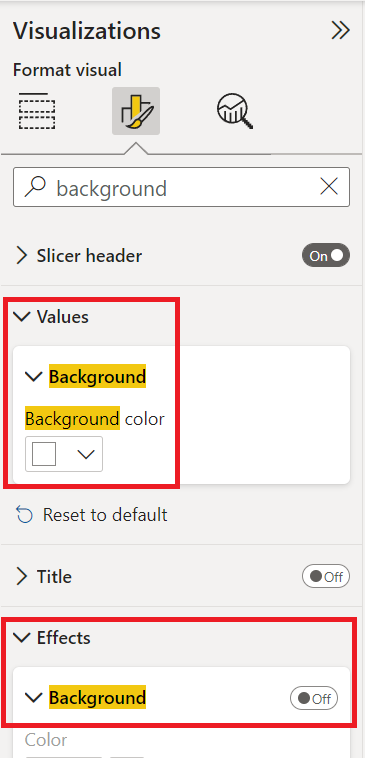
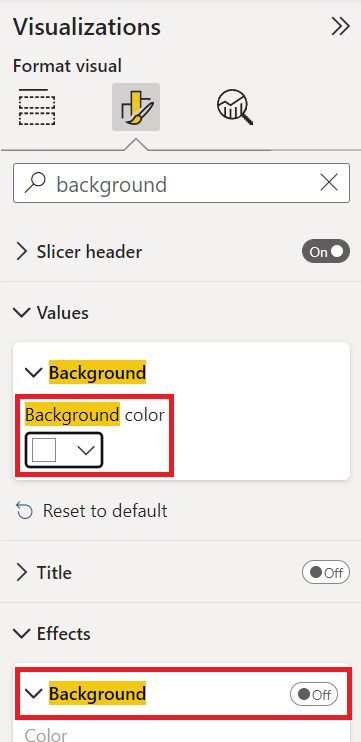
Updates to data viz instructions.

diff --git a/Day After Dashboard in a Day/DataVisualization.md b/Day After Dashboard in a Day/DataVisualization.md
@@ -195,8 +195,6 @@ As more requirements continue to be added to our report design, we want to be co
     
     ![Text color](./Media/TextColor.png)
 
-                
-
     | | |
     | :- | :- |
     | 🔍 Search term | **Values** |
@@ -258,16 +256,17 @@ Learn more about [DAX Fusion](https://dax.tips/2019/08/05/dax-fusion/) from the 
     | | |
     | :- | :- |
     | 🔍 Search term | **Header** |
+    | Slicer header > Title text | **Date** |
     | Slicer header > Font | **Segoe UI Semibold** |
     | Slicer header > Font size | **9** |
-    | Slicer header > Background | **White, 10% darker** | 
+    | Slicer header > Background | **White, 10% darker** |
 
     ![Style none](./Media/SlicerHeader.png)
 
     | | |
     | :- | :- |
     | 🔍 Search term | **Background** |
-    | Values > Background | **White** |
+    | Values > Background > Background color | **White** |
     | Effects > Background | **Off** |
 
     ![Style none](./Media/BackgroundColors.png)
@@ -278,7 +277,7 @@ Learn more about [DAX Fusion](https://dax.tips/2019/08/05/dax-fusion/) from the 
     ![Products slicer](./Media/ProductsSlicer.png)
 
 1. We'll now navigate to the **View** tab and select the **Performance analyzer** option. Within the **Performance analyzer** pane we'll select **Start recording** and then hover above our current slicer and select the **Analyze this visual** button in the top right.
-    
+
     Within our results, if we expand the **Slicer** name, a **DAX query** is present - this is because to render the current **List** configuration it must send a query to display our values.
 
     ![Analyze products slicer](./Media/AnalyzerProductsSlicer.png)
@@ -296,6 +295,79 @@ Learn more about [DAX Fusion](https://dax.tips/2019/08/05/dax-fusion/) from the 
     1. In the top right of the slicer select the downward chevron **(V)** and change the value to **Dropdown**
 
     ![Customer slicer](./Media/CustomerSlicer.png)
+
+1. We'll now select the **Date** slicer to make it our active object, navigate to the **Home** tab, select the **Format painter** button and repeat the following steps for the other two slicers.
+    1. With the **Format painter** mouse icon now active, select the **ProductCategoryName, ProductSubcategoryName** slicer to transfer the visual configurations.
+    1. With the **Format painter** mouse icon now active, select the **CustomerType*** slicer to transfer the visual configurations.
+    
+    ![Format painter](./Media/FormatPainter.png)
+
+1. We'll now click and hold the left mouse click and select both the **ProductCategoryName, ProductSubcategoryName** and **CustomerType** slicers (or press and hold Ctrl and then Click) on our page, navigate to the **Visualizations** pane's **Format your visual** section and update the following configurations below.
+
+    | | |
+    | :- | :- |
+    | 🔍 Search term | **Background** |
+    | Values > Background > Color | **White** |
+
+    ![Slicers values background](./Media/SlicersValuesBackground.png)
+
+<font size="6">✅ Lab check</font>
+
+![Finished slicer](./Media/FinishedSlicer.png)
+
+Maintaining a consistent look and feel across our report elements ensures a professional and visually appealing experiences for our end users. Utilizing features like **Format painter** (found across other Office applications) or by bulk updating configurations is a quick and easy way to ensure our designs are consistent.
+
+### Natural language
+
+1. In the bottom left corner of the canvas, double click the mouse to create the **Q&A** visual and complete the following steps.
+    1. Within the **Ask a question about your data** dialog, type the text **Total Sales Amount by manufacturer**. 
+    1. Next to the **Ask a question...** search box, select the **turn this Q&A result into a standard visual.** button.
+    1. Resize the visual to fit within the original **Background canvas** white square.
+
+    ![Natural language visual](./Media/NaturalLanguageVisual.png)
+
+1. In the top right corner of the canvas in the first rectangle, double click the mouse to create the **Q&A** visual and complete the following steps.
+    1. Within the **Ask a question about your data** dialog, type the text **Total Sales Amount by week**. 
+    1. Next to the **Ask a question...** search box, select the **turn this Q&A result into a standard visual.** button.
+    1. Resize the visual to fit within the original **Background canvas** white square.
+
+    ![Total sales by week](./Media/TotalSalesByWeek.png)
+
+1. As opposed to creating a line chart for each **Occupation** we can utilize the **Small multiples** feature to create a series of line charts within a single visual. With our current line chart as the active selection, navigate to the the **Fields** pane and add the **Occupation** field from the **Customers** table into the **Small multiples** field in the **Visualizations** pane.
+
+    ![Small multiples](./Media/SmallMultiples.png)
+
+1. Utilizing the **Visualizations** pane's **Format your visual** section, we'll update the following configurations below for our line charts small multiple properties.
+
+    **Note**: Utilize the Search box, to easily discover configurable settings.
+
+    | | |
+    | :- | :- |
+    | 🔍 Search term | **Multiples** |
+    | Small multiples > Layout > Rows | **1** |
+    | Small multiples > Border > Gridlines | **Vertical only** |
+    | Small multiples > Title > Position | **Bottom** |
+    | Small multiples > Title > Font | **Segoe UI** |
+
+    ![Small multiples properties](./Media/SmallMultiplesProperties.png)
+
+1. Utilizing the **Visualizations** pane's **Add further analyses to your visual** section, we'll update the following configurations below for our line chart to infuse additional insights.
+
+    **Note**: Utilize the Search box, to easily discover configurable settings.
+
+    | | |
+    | :- | :- |
+    | 🔍 Search term | **Median** |
+    | Median line > Apply settings to | select **Add line** |
+    | Median line > Line > Color | **Black** |
+
+    ![Median line](./Media/MedianLine.png)
+
+1. With our current small multiples line chart as the active selection and complete the following instructions by first selecting the ellipses (**...**) in the top right corner.
+    1. With the ellipses selected, navigate to the **Sort small multiples** option and select sort by **Total Sales Amount**
+    1. With the ellipses selected again, navigate to **Sort small multiples** and select the **Sort descending** option.
+
+    ![Sort small multiples](./Media/SortSmallMultiples.png)
 
 ## Artificial Intelligence
 
